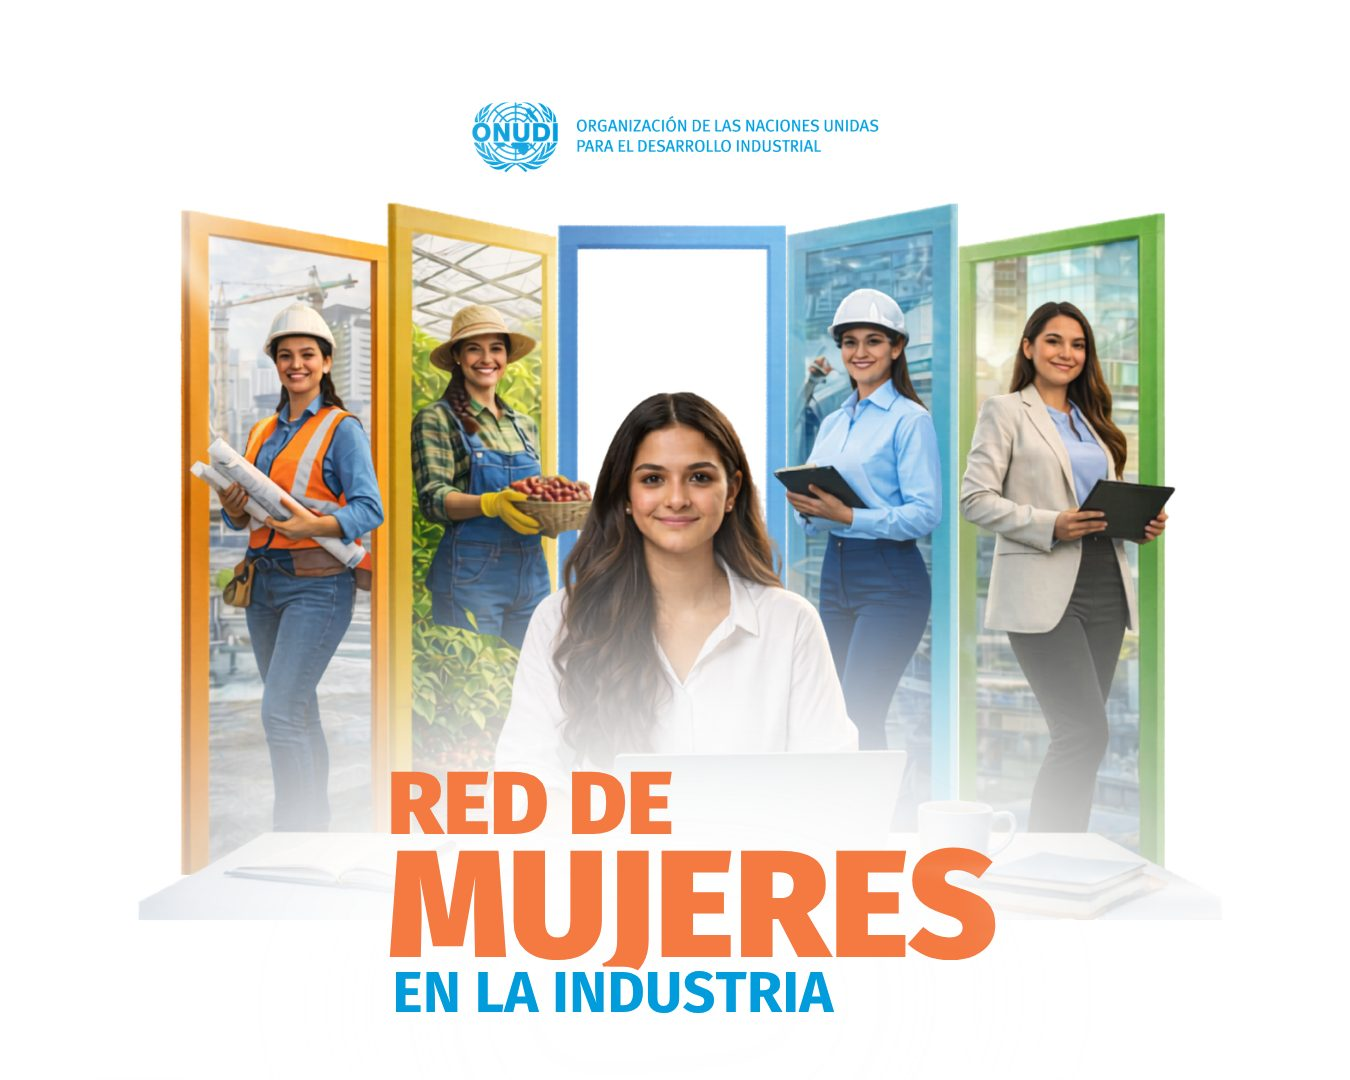
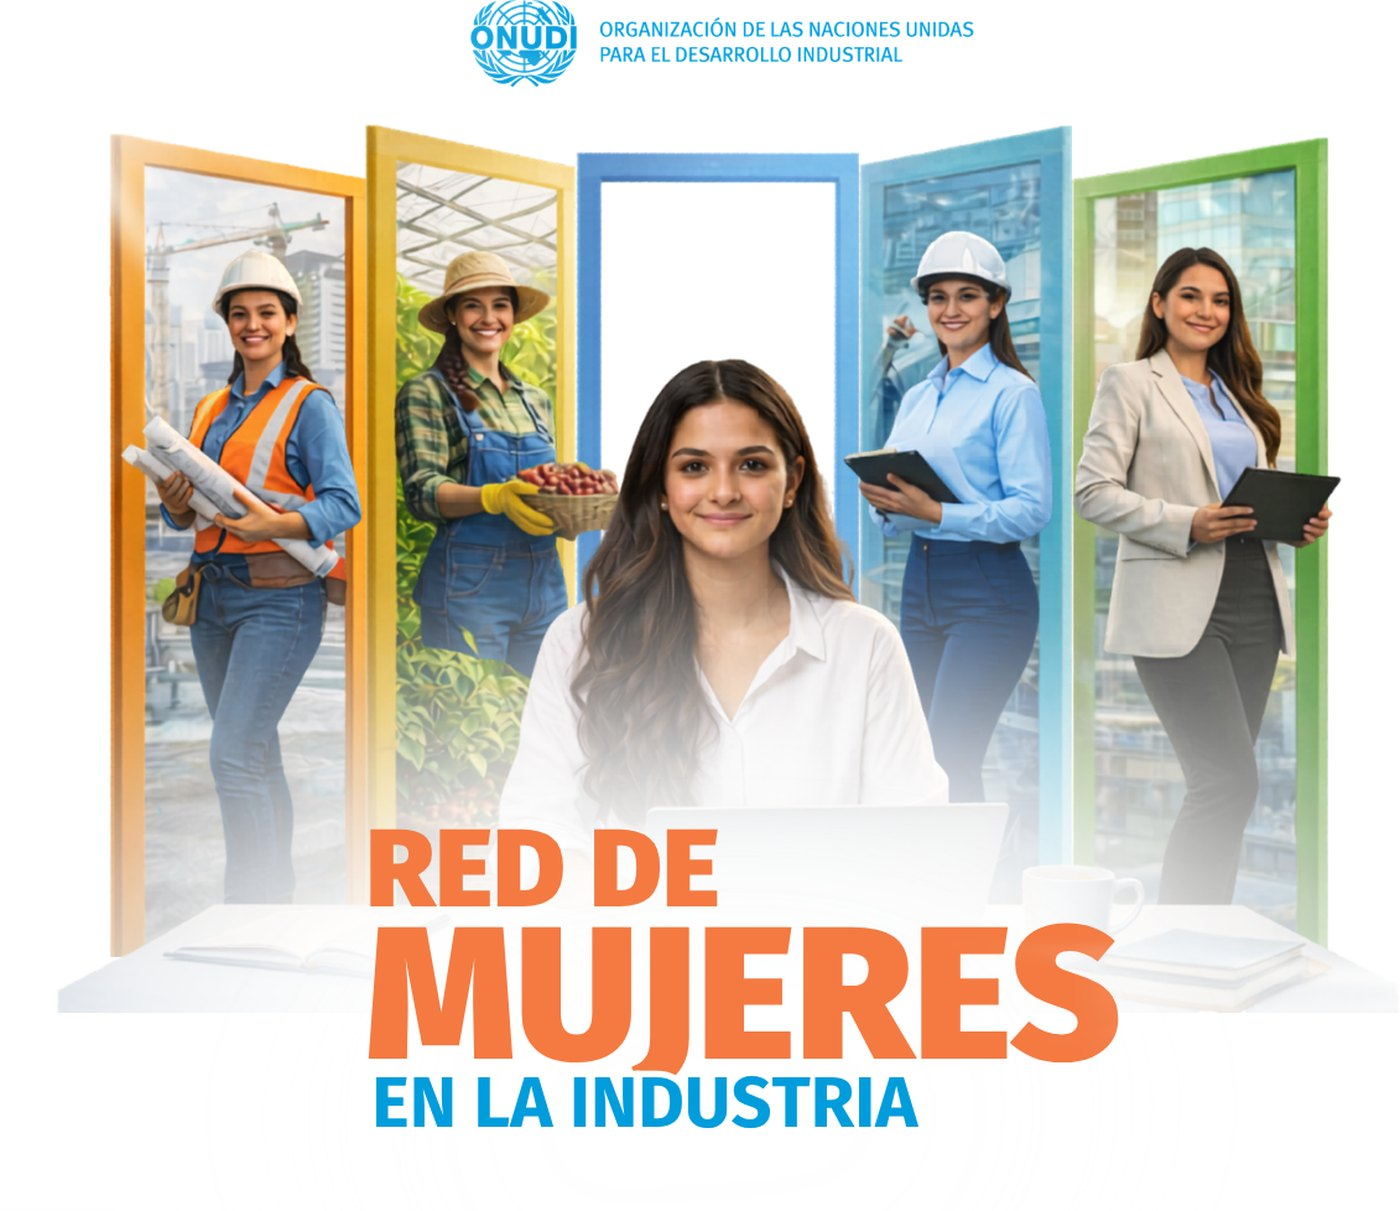
Add files via upload

diff --git a/app/redes/mujeres-en-la-industria/page.tsx b/app/redes/mujeres-en-la-industria/page.tsx
@@ -26,6 +26,17 @@ export default function RedMujeres() {
       </header>
 
       <main className="red-mujeres">
+        <div className="red-mujeres__portada">
+          <Image
+            src={red.portada}
+            alt={red.nombre}
+            width={1400}
+            height={1211}
+            priority
+            sizes="100vw"
+          />
+        </div>
+
         <header className="red-mujeres__cabecera">
           <Etiqueta>Red</Etiqueta>
           <h1>{red.nombre}</h1>

diff --git a/app/globals.css b/app/globals.css
@@ -880,8 +880,20 @@ dd {
   padding: 0 var(--margen) clamp(48px, 6vw, 80px);
 }
 
+.red-mujeres__portada {
+  margin-top: clamp(16px, 2.4vw, 28px);
+}
+
+.red-mujeres__portada img {
+  display: block;
+  width: 100%;
+  max-width: 980px;
+  height: auto;
+  margin: 0 auto;
+}
+
 .red-mujeres__cabecera {
-  padding: clamp(36px, 5vw, 60px) 0 clamp(24px, 3vw, 36px);
+  padding: clamp(24px, 3.4vw, 40px) 0 clamp(24px, 3vw, 36px);
 }
 
 .red-mujeres__cabecera h1 {
